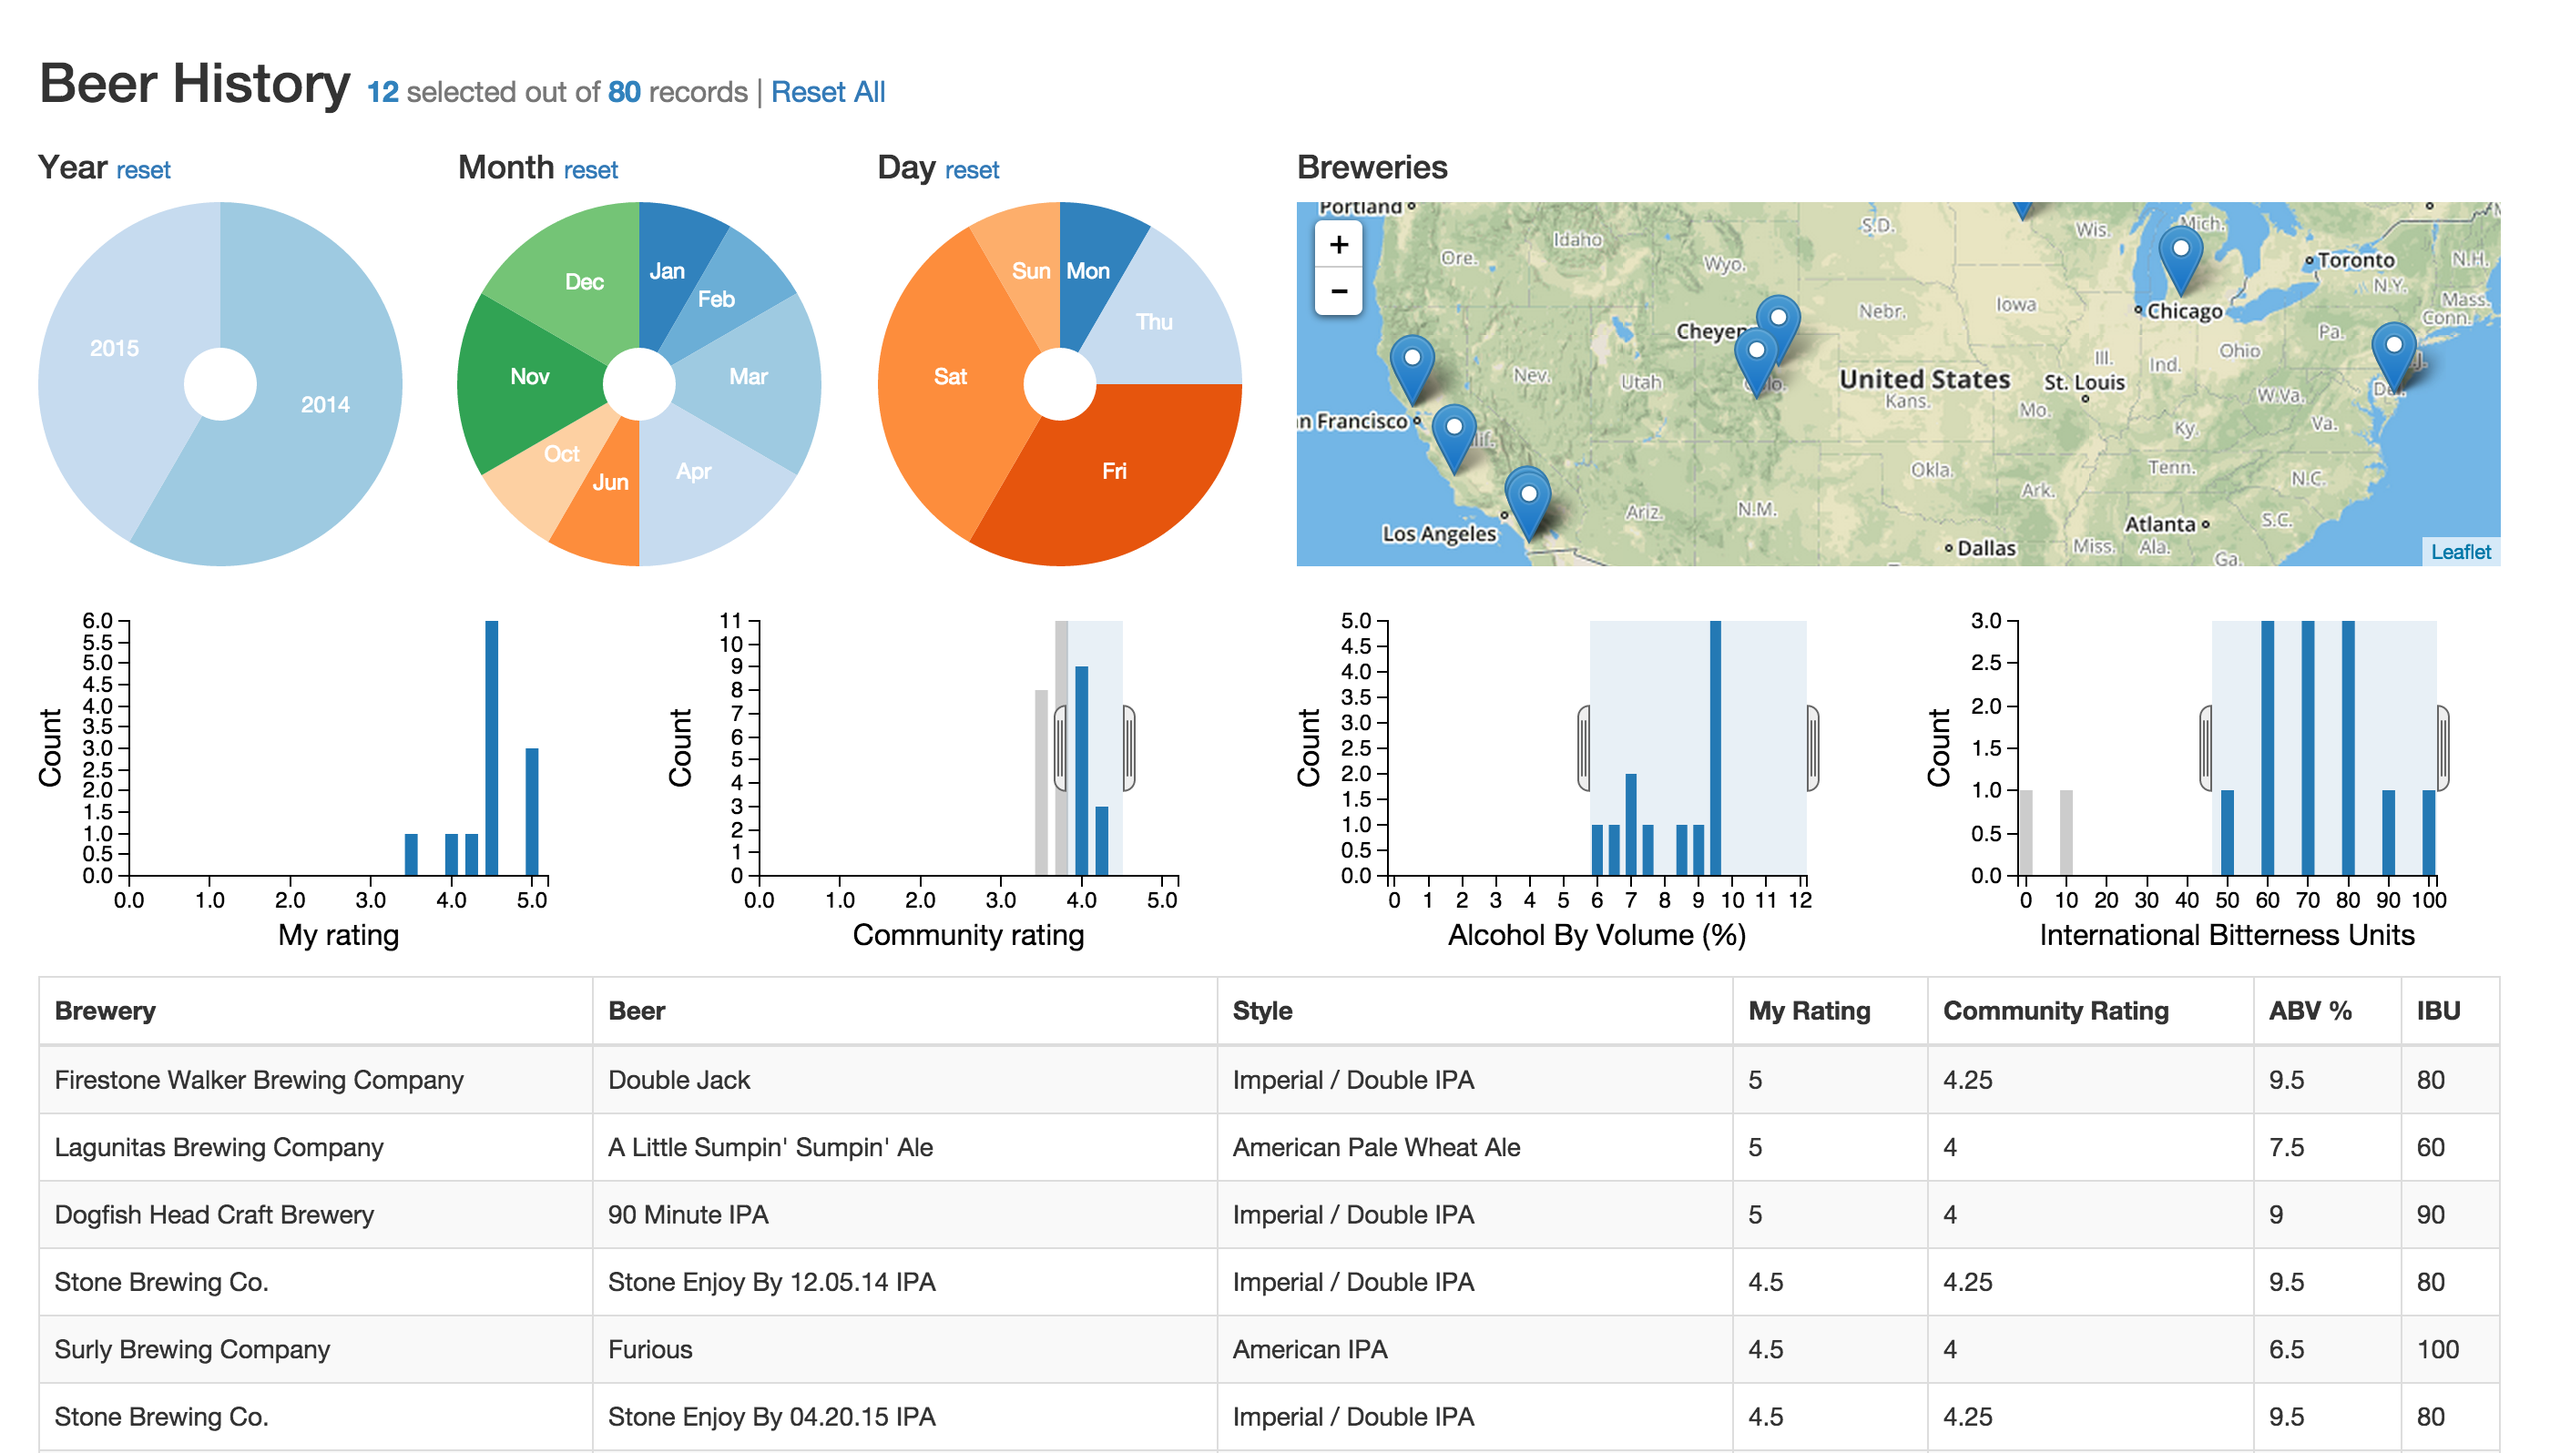
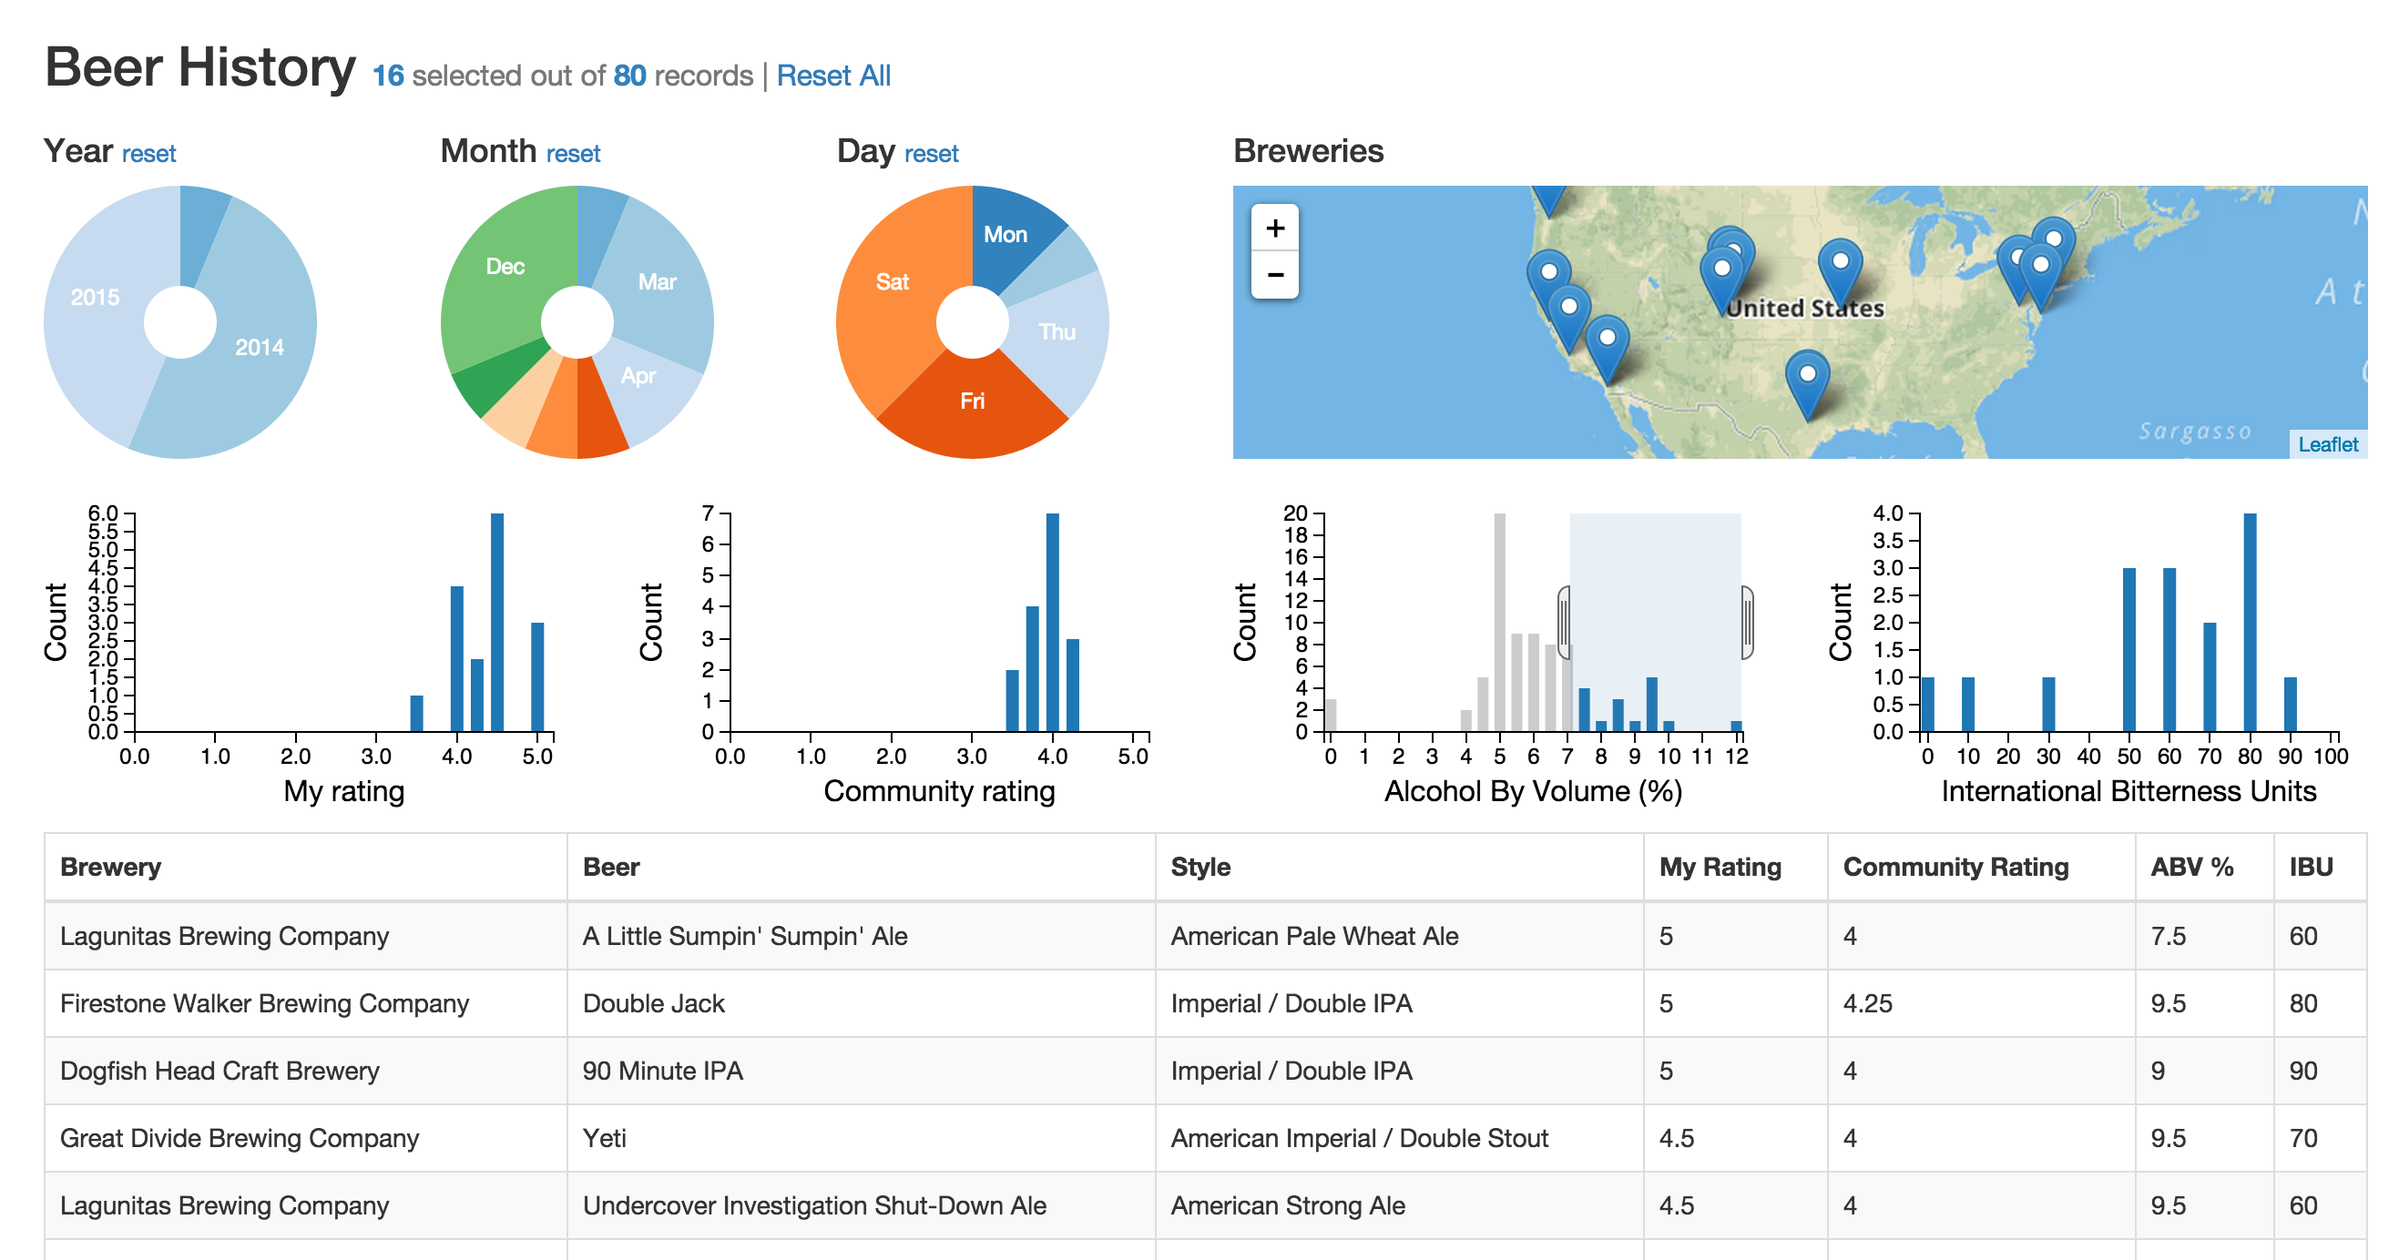
More mobile friendly

Changed region(s): [[0.0, 0.0311, 0.9962, 1.0]]

diff --git a/index.html b/index.html
@@ -12,7 +12,7 @@
 <body>
 <div class="container-fluid">
   <div class="row">
-    <div class="col-md-12 dc-data-count dc-chart" id="data-count">
+    <div class="col-xs-12 dc-data-count dc-chart" id="data-count">
       <h2>Beer History
         <small>
           <span class="filter-count"></span> selected out of <span class="total-count"></span> records |
@@ -23,39 +23,39 @@
     </div>
   </div>
   <div class="row" id="control-row">
-    <div class="col-md-2 pie-chart">
+    <div class="col-xs-2 pie-chart">
       <h4>Year <small><a id="year">reset</a></small></h4>
       <div class="dc-chart" id="chart-ring-year"></div>
     </div>
-    <div class="col-md-2 pie-chart">
+    <div class="col-xs-2 pie-chart">
       <h4>Month <small><a id="month" href="#">reset</a></small></h4>
       <div class="dc-chart" id="chart-ring-month"></div>
     </div>
-    <div class="col-md-2 pie-chart">
+    <div class="col-xs-2 pie-chart">
       <h4>Day <small><a id="day">reset</a></small></h4>
       <div id="chart-ring-day" class="dc-chart"></div>
     </div>
-    <div class="col-md-6">
+    <div class="col-xs-6">
       <h4>Breweries</h4>
       <div id="map"></div>
     </div>
   </div>
   <div class="row">
-    <div class="col-md-3">
+    <div class="col-xs-6 col-md-3">
       <div class="dc-chart" id="chart-rating-count"></div>
     </div>
-    <div class="col-md-3">
+    <div class="col-xs-6 col-md-3">
       <div class="dc-chart" id="chart-community-rating-count"></div>
     </div>
-    <div class="col-md-3">
+    <div class="col-xs-6 col-md-3">
       <div class="dc-chart" id="chart-abv-count"></div>
     </div>
-    <div class="col-md-3">
+    <div class="col-xs-6 col-md-3">
       <div class="dc-chart" id="chart-ibu-count"></div>
     </div>
   </div>
   <div class="row">
-    <div class="col-md-12">
+    <div class="col-xs-12">
       <table class="table table-bordered table-striped" id="data-table">
         <thead>
           <tr class="header">
@@ -152,15 +152,15 @@ d3.json('untappd.json', function (error, data) {
       dataTable = dc.dataTable('#data-table');
 
   yearChart
-      .width(200)
-      .height(200)
+      .width(150)
+      .height(150)
       .dimension(yearDim)
       .group(countPerYear)
       .innerRadius(20);
 
   monthChart
-      .width(200)
-      .height(200)
+      .width(150)
+      .height(150)
       .dimension(monthDim)
       .group(countPerMonth)
       .innerRadius(20)
@@ -174,8 +174,8 @@ d3.json('untappd.json', function (error, data) {
       });
 
   dayChart
-      .width(200)
-      .height(200)
+      .width(150)
+      .height(150)
       .dimension(dayOfWeekDim)
       .group(countPerDay)
       .innerRadius(20)
@@ -190,7 +190,7 @@ d3.json('untappd.json', function (error, data) {
 
   ratingCountChart
       .width(300)
-      .height(200)
+      .height(180)
       .dimension(ratingDim)
       .group(countPerRating)
       .x(d3.scale.linear().domain([0,5.2]))
@@ -204,7 +204,7 @@ d3.json('untappd.json', function (error, data) {
 
   commRatingCountChart
       .width(300)
-      .height(200)
+      .height(180)
       .dimension(commRatingDim)
       .group(countPerCommRating)
       .x(d3.scale.linear().domain([0,5.2]))
@@ -218,7 +218,7 @@ d3.json('untappd.json', function (error, data) {
 
   abvCountChart
       .width(300)
-      .height(200)
+      .height(180)
       .dimension(abvDim)
       .group(countPerABV)
       .x(d3.scale.linear().domain([-0.2, d3.max(beerData, function (d) { return d.beer.beer_abv; }) + 0.2]))
@@ -231,7 +231,7 @@ d3.json('untappd.json', function (error, data) {
 
   ibuCountChart
       .width(300)
-      .height(200)
+      .height(180)
       .dimension(ibuDim)
       .group(countPerIBU)
       .x(d3.scale.linear().domain([-2, d3.max(beerData, function (d) { return d.beer.beer_ibu; }) + 2]))

diff --git a/css/main.css b/css/main.css
@@ -9,7 +9,7 @@
 }
 
 .pie-chart {
-  height: 200px;
+  height: 150px;
 }
 
 .dc-chart .axis text{
@@ -21,7 +21,7 @@ text {
 }
 
 #map {
-  height: 200px;
+  height: 150px;
 }
 
 #control-row {

diff --git a/README.md b/README.md
@@ -107,7 +107,7 @@ would look like:
 
 
 Why col-md-4 instead of col-4? What's the "md" all about? It has to do with
-responsive layouts, and "md" stands for medium. Check [the docs](http://getbootstrap.com/css/#grid-options)
+responsive layouts, and "md" stands for medium. Check [the docs](http://getbootstrap.com/examples/grid/)
 for more info.
 > Here ends the tiny grid tutorial. 
 
@@ -134,7 +134,7 @@ Below is all of the scaffolding HTML code. Notice the row and column spacing.
 ```html
 <div class="container-fluid">
   <div class="row">
-    <div class="col-md-12 dc-data-count dc-chart" id="data-count">
+    <div class="col-xs-12 dc-data-count dc-chart" id="data-count">
       <h2>Beer History
         <small>
           <span class="filter-count"></span> selected out of <span class="total-count"></span> records |
@@ -145,39 +145,39 @@ Below is all of the scaffolding HTML code. Notice the row and column spacing.
     </div>
   </div>
   <div class="row" id="control-row">
-    <div class="col-md-2 pie-chart">
+    <div class="col-xs-2 pie-chart">
       <h4>Year <small><a id="year">reset</a></small></h4>
       <div class="dc-chart" id="chart-ring-year"></div>
     </div>
-    <div class="col-md-2 pie-chart">
+    <div class="col-xs-2 pie-chart">
       <h4>Month <small><a id="month" href="#">reset</a></small></h4>
       <div class="dc-chart" id="chart-ring-month"></div>
     </div>
-    <div class="col-md-2 pie-chart">
+    <div class="col-xs-2 pie-chart">
       <h4>Day <small><a id="day">reset</a></small></h4>
       <div id="chart-ring-day" class="dc-chart"></div>
     </div>
-    <div class="col-md-6">
+    <div class="col-xs-6">
       <h4>Breweries</h4>
       <div id="map"></div>
     </div>
   </div>
   <div class="row">
-    <div class="col-md-3">
+    <div class="col-xs-6 col-md-3">
       <div class="dc-chart" id="chart-rating-count"></div>
     </div>
-    <div class="col-md-3">
+    <div class="col-xs-6 col-md-3">
       <div class="dc-chart" id="chart-community-rating-count"></div>
     </div>
-    <div class="col-md-3">
+    <div class="col-xs-6 col-md-3">
       <div class="dc-chart" id="chart-abv-count"></div>
     </div>
-    <div class="col-md-3">
+    <div class="col-xs-6 col-md-3">
       <div class="dc-chart" id="chart-ibu-count"></div>
     </div>
   </div>
   <div class="row">
-    <div class="col-md-12">
+    <div class="col-xs-12">
       <table class="table table-bordered table-striped" id="data-table">
         <thead>
           <tr class="header">
@@ -375,8 +375,8 @@ leftmost element in the second row.
 
 ```javascript
 yearChart
-    .width(200)
-    .height(200)
+    .width(150)
+    .height(150)
     .dimension(yearDim)
     .group(countPerYear)
     .innerRadius(20);
@@ -393,8 +393,8 @@ instructs dc how to order the months when creating the pie chart.
 
 ```javascript
 monthChart
-    .width(200)
-    .height(200)
+    .width(150)
+    .height(150)
     .dimension(monthDim)
     .group(countPerMonth)
     .innerRadius(20)
@@ -421,8 +421,8 @@ that the custom ordering function is updated accordingly.
 
 ```javascript
 dayChart
-    .width(200)
-    .height(200)
+    .width(150)
+    .height(150)
     .dimension(dayOfWeekDim)
     .group(countPerDay)
     .innerRadius(20)
@@ -447,7 +447,7 @@ with the chart that depicts the count of beers for each of my ratings.
 ```javascript
   ratingCountChart
       .width(300)
-      .height(200)
+      .height(180)
       .dimension(ratingDim)
       .group(countPerRating)
       .x(d3.scale.linear().domain([0,5.2]))
@@ -479,7 +479,7 @@ same as the previous chart.
 ```javascript
 commRatingCountChart
     .width(300)
-    .height(200)
+    .height(180)
     .dimension(commRatingDim)
     .group(countPerCommRating)
     .x(d3.scale.linear().domain([0,5.2]))
@@ -514,7 +514,7 @@ each side to make the chart look nicer.
 ```javascript
 abvCountChart
     .width(300)
-    .height(200)
+    .height(180)
     .dimension(abvDim)
     .group(countPerABV)
     .x(d3.scale.linear().domain([-0.2, d3.max(beerData, function (d) { return d.beer.beer_abv; }) + 0.2]))
@@ -537,7 +537,7 @@ nicer.
 ```javascript
 ibuCountChart
     .width(300)
-    .height(200)
+    .height(180)
     .dimension(ibuDim)
     .group(countPerIBU)
     .x(d3.scale.linear().domain([-2, d3.max(beerData, function (d) { return d.beer.beer_ibu; }) + 2]))
@@ -626,7 +626,7 @@ to dynamically display the number of selected check-ins and the total number
 of check-ins at the top of the visualization. 
 
 ```html
-<div class="col-md-12 dc-data-count dc-chart" id="data-count">
+<div class="col-xs-12 dc-data-count dc-chart" id="data-count">
   <h2>Beer History
     <small>
       <span class="filter-count"></span> selected out of <span class="total-count"></span> records |
@@ -657,7 +657,7 @@ click handlers to reset the respective charts via
 For each chart we'll add reset links like this:
 
 ```html
-<div class="col-md-2 pie-chart">
+<div class="col-xs-2 pie-chart">
   <h4>Year <small><a id="year">reset</a></small></h4>
   <div class="dc-chart" id="chart-ring-year"></div>
 </div>
